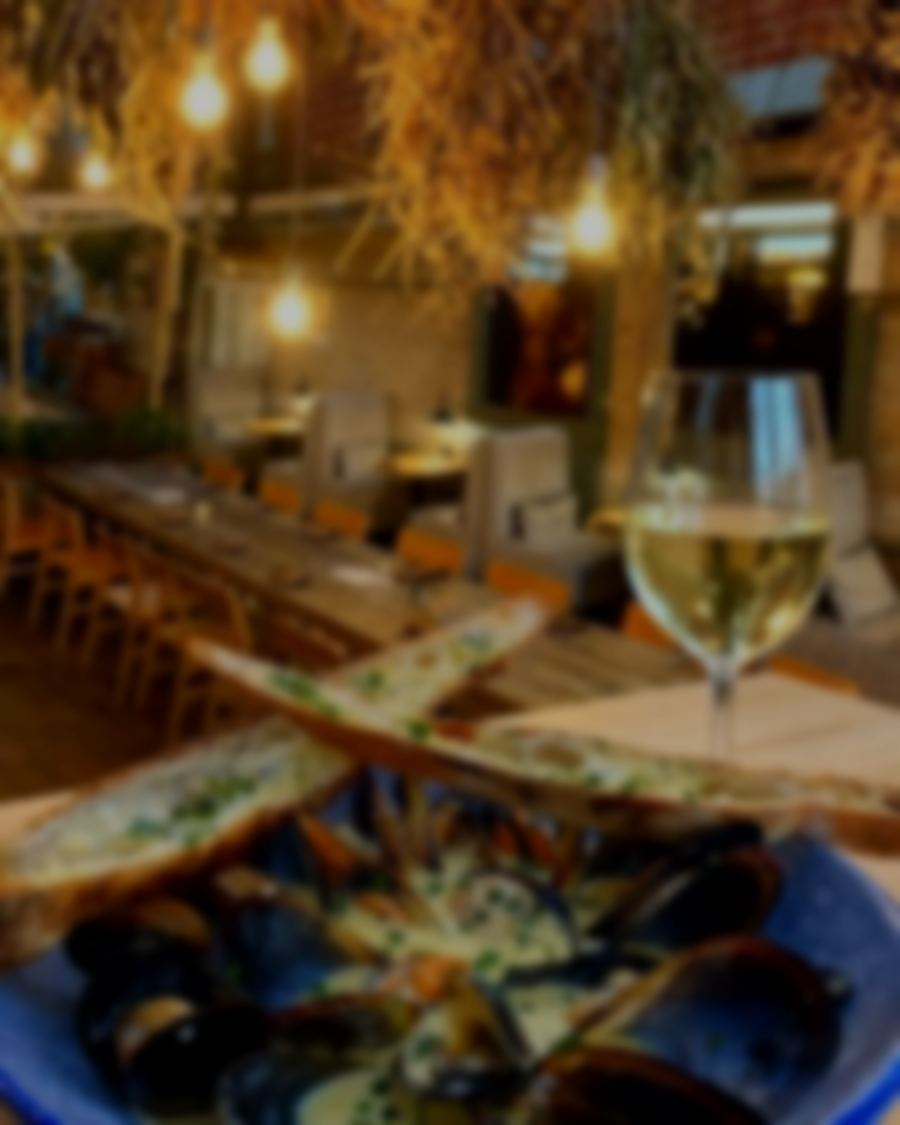
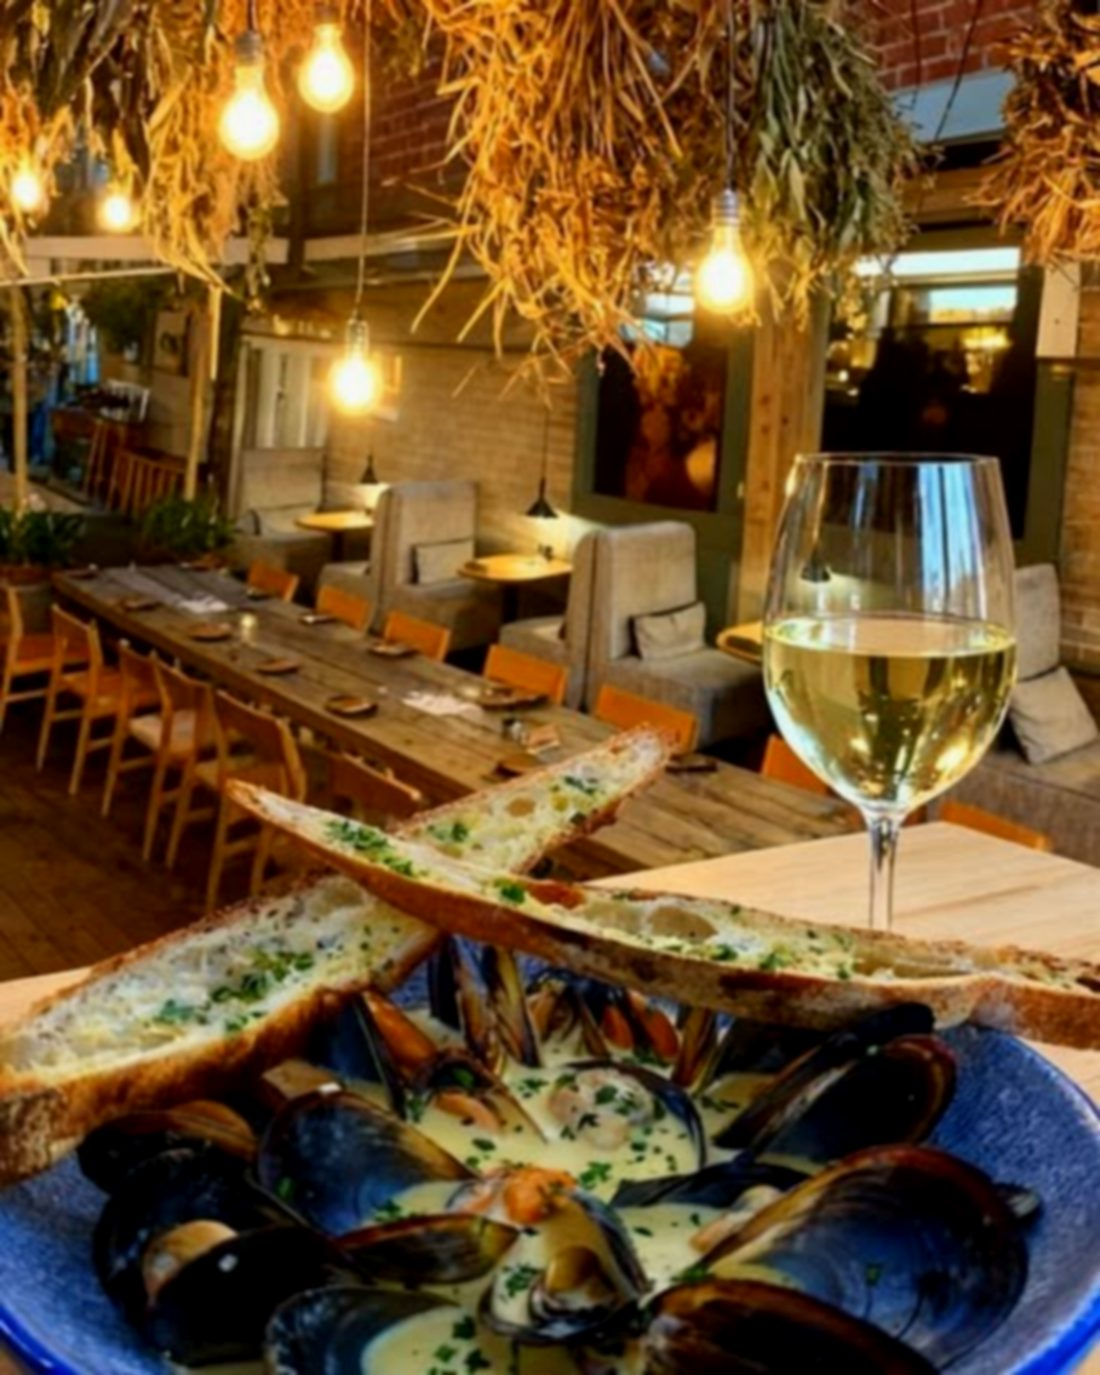
Nest: clearer room in the opening, real Edison filament bulbs
Claude-Session: https://claude.ai/code/session_014uauVvgYkqHCwUrpkHYbsk

diff --git a/assets/site.css b/assets/site.css
@@ -70,9 +70,8 @@ p+p{margin-top:14px}
 .scene{position:absolute;inset:-4%;will-change:transform,opacity;backface-visibility:hidden}
 .scene img{width:100%;height:100%;object-fit:cover}
 .s1{transform:scale(calc(1.08 + var(--p)*.5));opacity:calc(1 - max(0, var(--p) - .45)*2.6)}
-.s2a{transform:scale(calc(1.25 - max(0, var(--p) - .4)*.3));opacity:calc(max(0, var(--p) - .38)*2.6)}
-.s2b{transform:scale(calc(1.25 - max(0, var(--p) - .4)*.3));opacity:calc(max(0, var(--p) - .55)*3.4)}
-.dark{position:absolute;inset:0;background:#050403;opacity:calc(1 - var(--lit,0)*.9 + var(--p)*.25);transition:opacity 1.8s ease;will-change:opacity}
+.s2b{transform:scale(calc(1.25 - max(0, var(--p) - .4)*.3));opacity:calc(max(0, var(--p) - .4)*2.6)}
+.dark{position:absolute;inset:0;background:#050403;opacity:calc(1 - var(--lit,0)*.97 + var(--p)*.2);transition:opacity 1.8s ease;will-change:opacity}
 .dust{position:absolute;inset:0;overflow:hidden;opacity:calc(var(--lit,0)*(1 - var(--p)*.6));transition:opacity 2s;pointer-events:none}
 .dust i{position:absolute;bottom:-10px;border-radius:50%;background:radial-gradient(circle,rgba(255,224,170,1) 0,rgba(255,190,110,0) 70%);animation:mote linear infinite;will-change:transform}
 @keyframes mote{from{transform:translate3d(0,0,0)}to{transform:translate3d(var(--dx),-110vh,0)}}
@@ -80,17 +79,18 @@ p+p{margin-top:14px}
 .welcome p{font-family:var(--f-d);font-style:italic;font-size:clamp(44px,7vw,104px);line-height:1;color:var(--cream);text-shadow:0 0 50px rgba(255,180,90,.35),0 4px 30px rgba(0,0,0,.6)}
 .welcome small{display:block;margin-top:18px;font-size:12px;font-weight:700;letter-spacing:.26em;text-transform:uppercase;color:var(--amber-2)}
 .veil{position:absolute;inset:0;background:
-  radial-gradient(ellipse 70% 60% at 50% 45%,transparent 0%,rgba(5,4,3,.35) 60%,rgba(5,4,3,.9) 100%),
-  linear-gradient(180deg,rgba(5,4,3,.7) 0%,transparent 22%,transparent 60%,rgba(15,13,11,1) 100%)}
+  linear-gradient(90deg,rgba(5,4,3,.72) 0%,rgba(5,4,3,.45) 38%,rgba(5,4,3,.05) 70%,transparent 100%),
+  radial-gradient(ellipse 85% 75% at 60% 45%,transparent 0%,rgba(5,4,3,.2) 65%,rgba(5,4,3,.75) 100%),
+  linear-gradient(180deg,rgba(5,4,3,.55) 0%,transparent 18%,transparent 70%,rgba(15,13,11,1) 100%)}
+@media (max-width:640px){.veil{background:linear-gradient(180deg,rgba(5,4,3,.55) 0%,transparent 20%,rgba(5,4,3,.35) 50%,rgba(5,4,3,.85) 82%,rgba(15,13,11,1) 100%)}}
 .stage::after{content:"";position:absolute;inset:0;background:var(--bg);opacity:calc((var(--p) - .88)*8.4);pointer-events:none}
 /* pendant bulbs */
 .bulbs{position:absolute;inset:0;transform:translateY(calc(var(--p)*-38vh));pointer-events:none}
-.bulb{position:absolute;left:var(--x);top:0;width:2px;height:var(--l);background:linear-gradient(#000,#3a2a1c);transform-origin:top center;animation:swing 7s ease-in-out infinite alternate;animation-delay:calc(var(--d)*-4);will-change:transform}
-.bulb::before{content:"";position:absolute;left:50%;bottom:-6px;width:14px;height:10px;transform:translateX(-50%) scale(var(--s));background:#2A1E14;border-radius:3px 3px 1px 1px;z-index:1}
-.bulb::after{content:"";position:absolute;left:50%;top:calc(100% - 64px);width:160px;height:160px;margin-left:-80px;transform:scale(var(--s));
-  background:url(/assets/img/glow.png) center/100% 100% no-repeat,radial-gradient(ellipse 13px 18px at 50% 56%,#FFF6DA 0 30%,#FFD58A 60%,rgba(255,200,120,0) 100%);
-  opacity:0;animation:on .9s steps(1) var(--d) forwards}
-.hero.lit .bulb::after{opacity:1}
+.bulb{position:absolute;left:var(--x);top:0;width:3px;height:var(--l);background:linear-gradient(90deg,#000,#2b2520 50%,#000);transform-origin:top center;animation:swing 7s ease-in-out infinite alternate;animation-delay:calc(var(--d)*-4);will-change:transform;z-index:1}
+.bulb b{position:absolute;left:50%;top:100%;width:calc(60px*var(--s));height:calc(128px*var(--s));margin-left:calc(-30px*var(--s));background:url(/assets/img/bulb-off.png) center top/100% 100% no-repeat;z-index:2}
+.bulb b::after{content:"";position:absolute;inset:0;background:url(/assets/img/bulb.png) center top/100% 100% no-repeat;opacity:0;animation:on .9s steps(1) var(--d) forwards}
+.bulb::after{content:"";position:absolute;left:50%;top:calc(100% + 78px*var(--s));width:calc(300px*var(--s));height:calc(300px*var(--s));margin:calc(-150px*var(--s)) 0 0 calc(-150px*var(--s));background:url(/assets/img/glow.png) center/100% 100% no-repeat;z-index:1;opacity:0;animation:onglow .9s steps(1) var(--d) forwards;pointer-events:none}
+@keyframes onglow{0%{opacity:0}20%{opacity:.7}30%{opacity:.05}45%{opacity:1}55%{opacity:.35}70%,100%{opacity:1}}
 @keyframes on{0%{opacity:0}20%{opacity:.8}30%{opacity:.1}45%{opacity:1}55%{opacity:.4}70%,100%{opacity:1}}
 @keyframes swing{from{transform:rotate(-1.6deg)}to{transform:rotate(1.6deg)}}
 .hero-copy{position:absolute;inset:0;display:flex;flex-direction:column;justify-content:flex-end;padding:0 max(24px,env(safe-area-inset-right,0px)) clamp(90px,15vh,150px) max(24px,env(safe-area-inset-left,0px));max-width:1160px;margin:0 auto;opacity:calc(1 - var(--p)*2.6);transform:translateY(calc(var(--p)*-80px));z-index:3}
@@ -107,7 +107,7 @@ p+p{margin-top:14px}
 @media (max-width:640px){
   .hero-copy{padding-bottom:110px}
   .hero h1{gap:8px;flex-direction:column;align-items:flex-start}
-  .bulb::after{width:120px;height:120px;margin-left:-60px;top:calc(100% - 48px)}
+  .bulb{--s:.72!important}
   .hint{writing-mode:horizontal-tb;left:0;right:0;justify-content:center}
 }
 
@@ -242,7 +242,7 @@ p+p{margin-top:14px}
   html{scroll-behavior:auto}
   .js .reveal:not(.in){opacity:1;transform:none}
   .hero{height:auto}.stage{position:relative}
-  .bulb,.bulb::after{animation:none!important;opacity:1}
+  .bulb,.bulb::after,.bulb b::after{animation:none!important;opacity:1}
   .hero-copy .kicker,.hero h1 .mark.big,.hero h1 .fb,.lede,.hero-cta{animation:none;opacity:1}
   .hint i{animation:none}
 }

diff --git a/index.html b/index.html
@@ -48,17 +48,16 @@
 <section class="hero" id="top" aria-label="Welcome to Nest">
   <div class="stage">
     <div class="scene s1"><img src="/assets/img/hero-room.jpg" alt="" fetchpriority="high"></div>
-    <div class="scene s2a"><img src="/assets/img/hero-table-soft.jpg" alt=""></div>
     <div class="scene s2b"><img src="/assets/img/hero-table.jpg" alt=""></div>
     <div class="dark"></div>
     <div class="dust" aria-hidden="true"></div>
     <div class="bulbs" aria-hidden="true">
-      <span class="bulb" style="--x:9%;--l:16vh;--d:.15s;--s:1"></span>
-      <span class="bulb" style="--x:24%;--l:30vh;--d:.55s;--s:.8"></span>
-      <span class="bulb" style="--x:41%;--l:11vh;--d:.95s;--s:.9"></span>
-      <span class="bulb" style="--x:63%;--l:24vh;--d:.35s;--s:1.1"></span>
-      <span class="bulb" style="--x:79%;--l:9vh;--d:1.2s;--s:.75"></span>
-      <span class="bulb" style="--x:92%;--l:34vh;--d:.7s;--s:.95"></span>
+      <span class="bulb" style="--x:9%;--l:16vh;--d:.15s;--s:1"><b></b></span>
+      <span class="bulb" style="--x:24%;--l:30vh;--d:.55s;--s:.8"><b></b></span>
+      <span class="bulb" style="--x:41%;--l:11vh;--d:.95s;--s:.9"><b></b></span>
+      <span class="bulb" style="--x:63%;--l:24vh;--d:.35s;--s:1.1"><b></b></span>
+      <span class="bulb" style="--x:79%;--l:9vh;--d:1.2s;--s:.75"><b></b></span>
+      <span class="bulb" style="--x:92%;--l:34vh;--d:.7s;--s:.95"><b></b></span>
     </div>
     <div class="veil"></div>
     <div class="welcome" aria-hidden="true"><p>Welcome in.</p><small>Pull up a chair at the long table</small></div>
